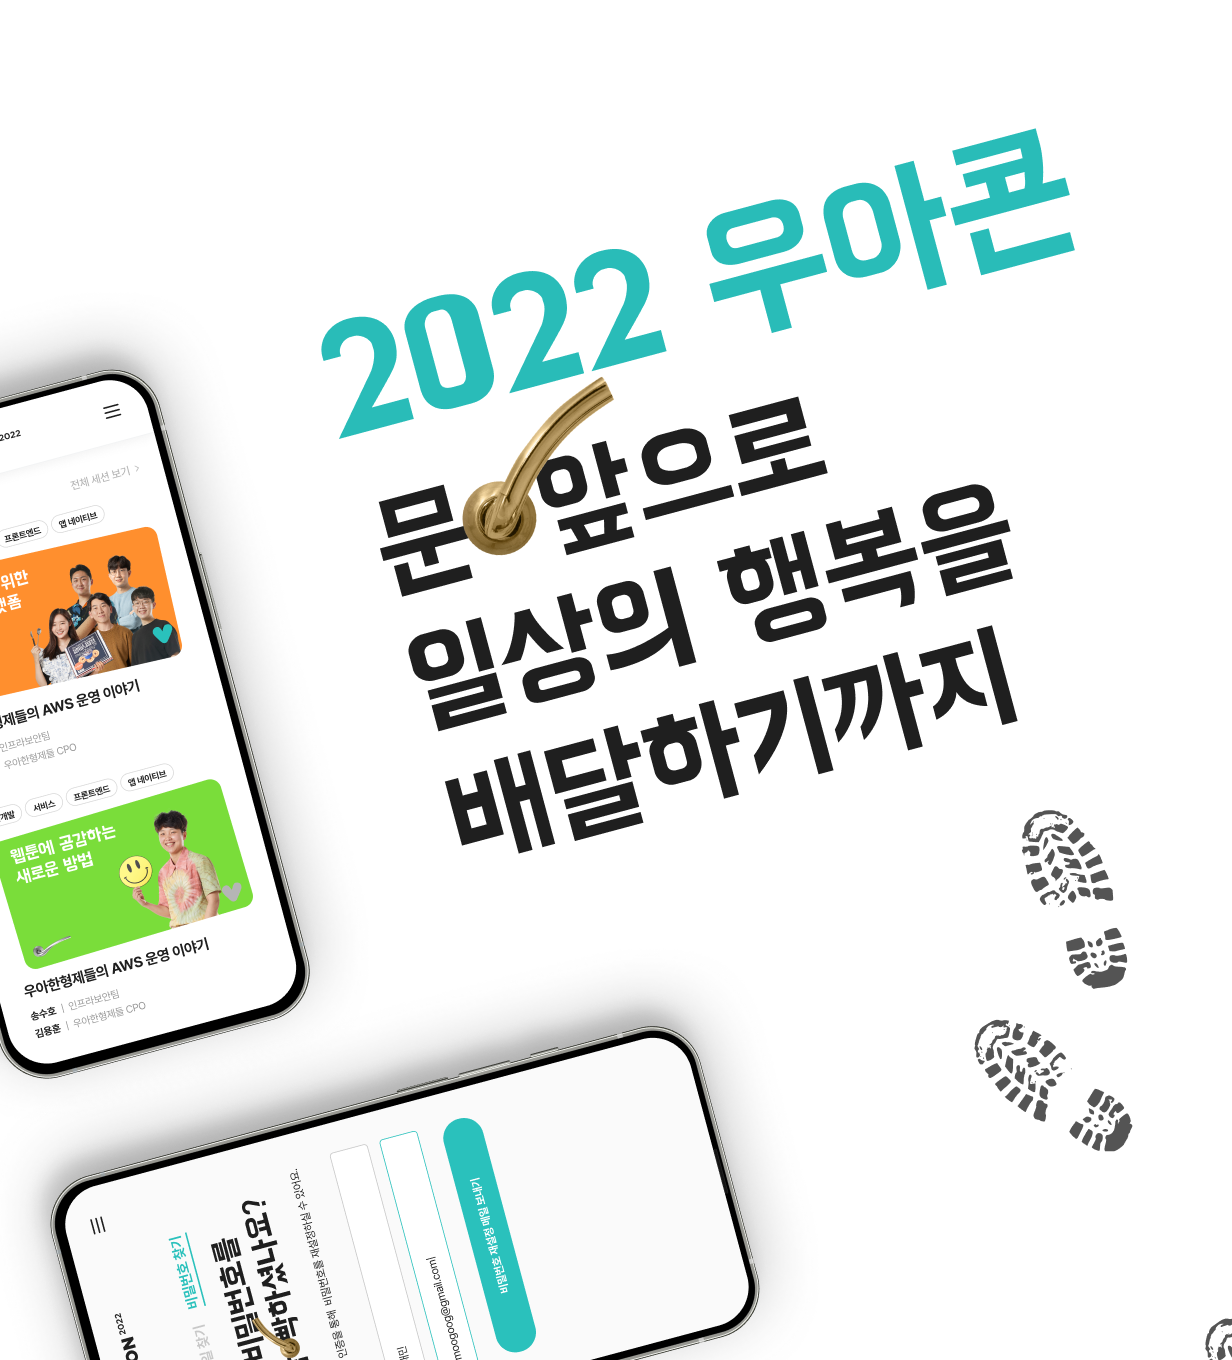
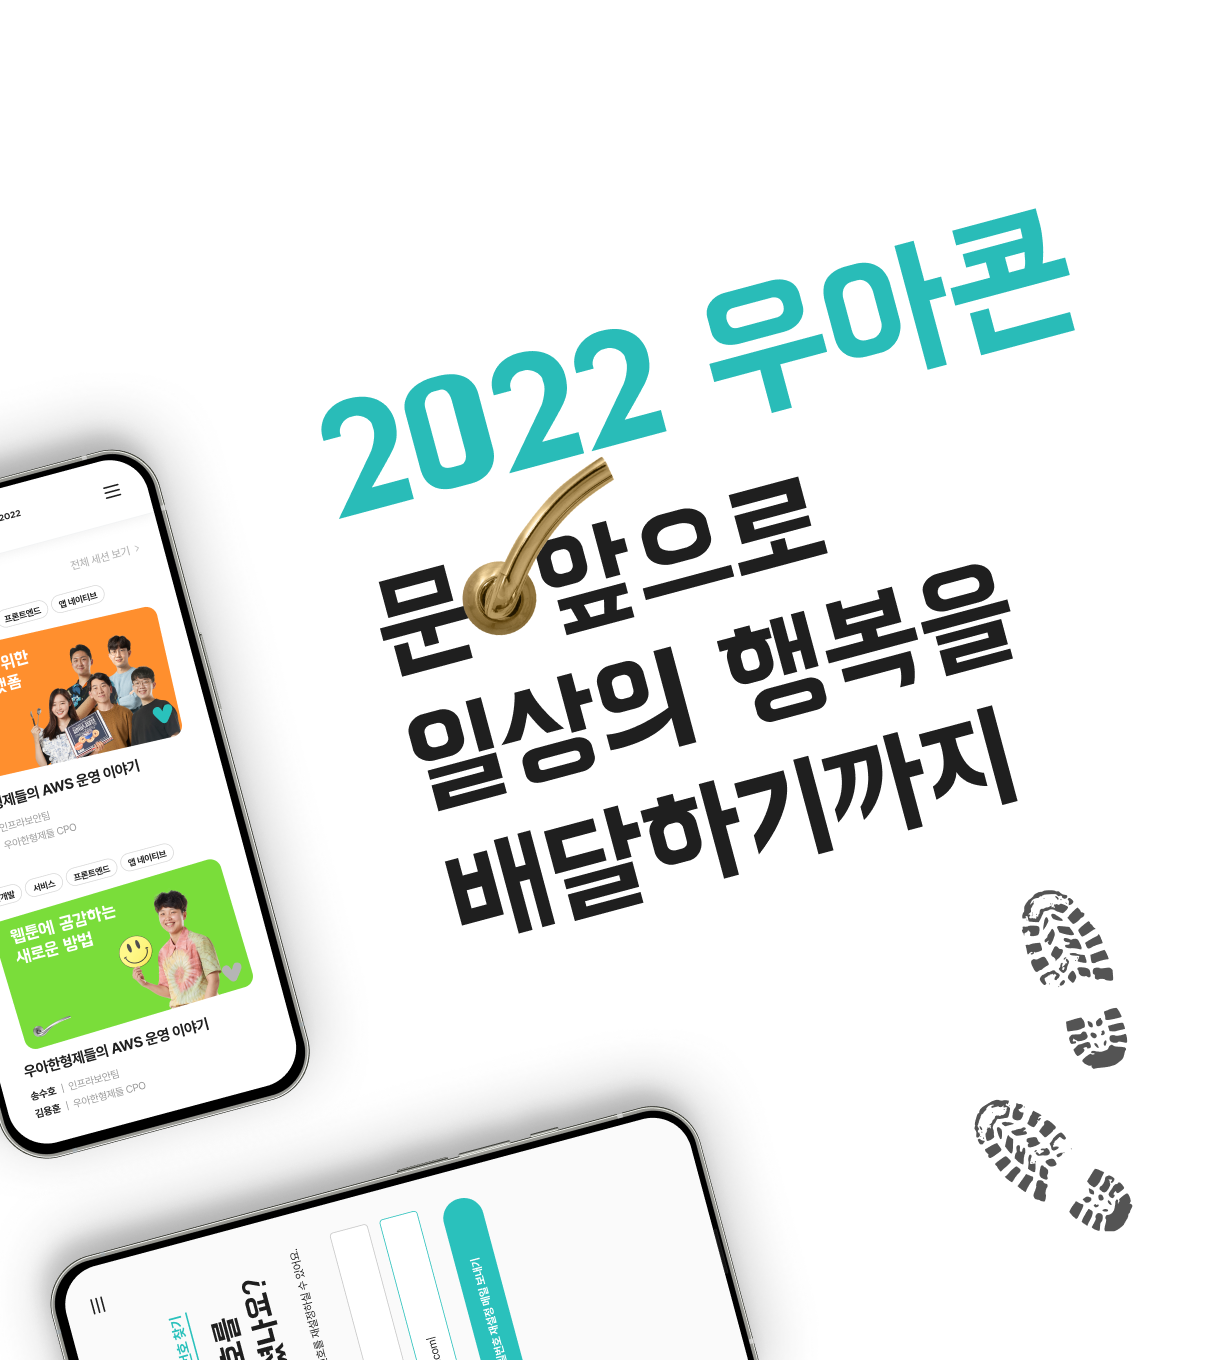
fix: p-2 이미지 수정, 포트폴리오 월 full-width 적용

diff --git a/app/components/PortfolioWall.tsx b/app/components/PortfolioWall.tsx
@@ -40,8 +40,7 @@ export default function PortfolioWall() {
   return (
     <section ref={ref} className="no-px" style={{ position: "relative", background: "#0a0a0a", overflow: "hidden", height: "80vh", minHeight: 560, marginBottom: 20 }} aria-hidden="true">
       <style>{`@media(max-width:767px){.pw-grid{grid-template-columns:repeat(3,1fr)!important}.pw-grid>div:nth-child(n+4){display:none}.pw-tile{height:160px!important}}@media(min-width:768px)and(max-width:1023px){.pw-tile{height:200px!important}}`}</style>
-      <div style={{ position: "absolute", inset: 0, display: "flex", justifyContent: "center", padding: "60px 10px 0" }}>
-      <div className="pw-grid" style={{ display: "grid", gridTemplateColumns: "repeat(5, 1fr)", gap: 10, width: "100%", maxWidth: 1440, alignContent: "start" }}>
+      <div className="pw-grid" style={{ position: "absolute", inset: 0, display: "grid", gridTemplateColumns: "repeat(5, 1fr)", gap: 10, padding: "60px 10px 0", alignContent: "start" }}>
         {cols.map((c, ci) => {
           const y = -c.speed * Math.max(0, progress);
           return (
@@ -63,7 +62,6 @@ export default function PortfolioWall() {
             </div>
           );
         })}
-      </div>
       </div>
       <div style={{ position: "absolute", left: 0, right: 0, top: 0, height: 220, background: "linear-gradient(180deg,#0a0a0a 40%,rgba(10,10,10,0))", zIndex: 4, pointerEvents: "none" }} />
       <div style={{ position: "absolute", left: 0, right: 0, bottom: 0, height: 140, background: "linear-gradient(0deg,#0a0a0a,rgba(10,10,10,0))", zIndex: 4, pointerEvents: "none" }} />
